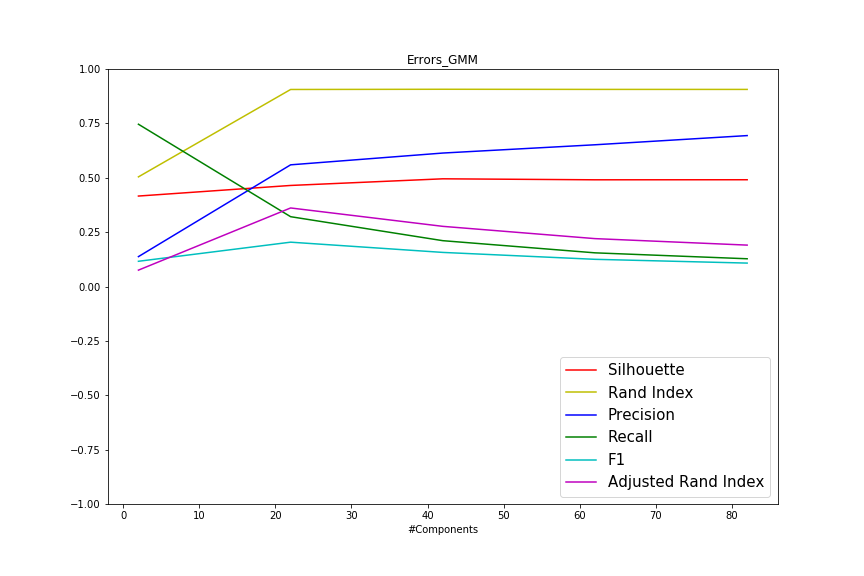
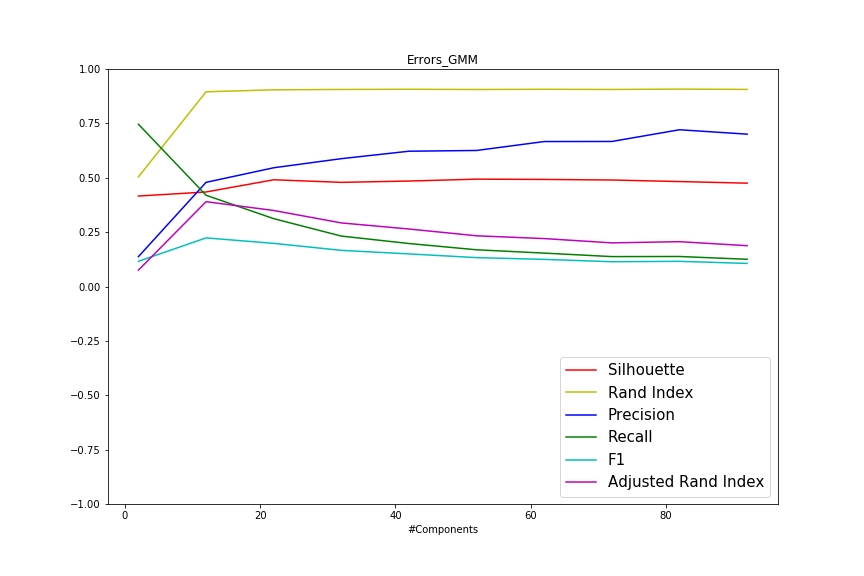
new results added

diff --git a/clustering.py b/clustering.py
@@ -95,15 +95,14 @@ Fs = data[:,-1]
 
 Xs_xyz = transf_earth_coord(Xs)
 
-fig = plt.figure(figsize=(6,4))
-ax = fig.add_subplot(111, projection = '3d')
-ax.set_aspect('equal')
-ax.scatter(Xs_xyz[:,0], Xs_xyz[:,1], Xs_xyz[:,2], s=5)
-plt.show()
+#fig = plt.figure(figsize=(6,4))
+#ax = fig.add_subplot(111, projection = '3d')
+#ax.set_aspect('equal')
+#ax.scatter(Xs_xyz[:,0], Xs_xyz[:,1], Xs_xyz[:,2], s=5)
+#plt.show()
 
 def score(X, sample_cluster, i):
-#    sil_score = metr.silhouette_score(Xs_xyz, sample_cluster)
-    sil_score = 1
+    sil_score = metr.silhouette_score(Xs_xyz, sample_cluster)
     adj_rand_score = metr.adjusted_rand_score(Fs , sample_cluster)
     TP,FP,FN,TN = confusion_matrix(sample_cluster) #não sei se se pode dar este nome
     N = len(sample_cluster)
@@ -111,7 +110,7 @@ def score(X, sample_cluster, i):
     precision = TP/(FP + TP)
     recall = TP/(FN + TP)
     F1 = (precision * recall)/(precision + recall)
-    errors.append([i, sil_score,rand_index, precision, recall, F1, adj_rand_score])
+    errors.append([i, sil_score, rand_index, precision, recall, F1, adj_rand_score])
     
     
 def confusion_matrix(sample_cluster):
@@ -132,7 +131,7 @@ def confusion_matrix(sample_cluster):
 #------------K-Means--------------------------
 
 #errors = []
-#for k in np.arange( int(96*0.90), int(96*1.05), 10):
+#for k in np.arange( int(96*0.9), int(96*1.05), 10):
 #    kmeans = KMeans(n_clusters=k).fit(Xs_xyz)
 #   # plot_classes(kmeans.predict(Xs_xyz), Xs[:,1], Xs[:,0])
 #    sample_cluster = kmeans.predict(Xs_xyz)
@@ -144,46 +143,46 @@ def confusion_matrix(sample_cluster):
     
 #------------DBSCAN--------------------------
 
-#----Eps selection---
-min_pts = 4
-nbrs = NearestNeighbors(n_neighbors=min_pts).fit(Xs_xyz)
-distances, indexes = nbrs.kneighbors(Xs_xyz)
-_4_dist = distances[:,-1] #Select distance to the furthest k_point
-ix = _4_dist.argsort()[::-1] #Sort and then invert to be in descending order
-
-plt.figure(1, figsize = (12,8), frameon = False)
-frame = plt.gca()
-plt.title("Sorted K-Dist Graph", fontsize = 20)
-plt.ylabel("K-Dist", fontsize = 15)
-frame.plot(np.arange(_4_dist.shape[0]), _4_dist[ix], "-r")
-frame.axes.get_xaxis().set_ticks([]) # ignore X values
-
-plt.savefig("sorted_k-dist_graph.png")
-plt.show()
-plt.close()
-
-errors = []
-for eps in np.arange(200, 500, 50):
-    print(eps)
-    db = DBSCAN(eps=eps).fit(Xs_xyz)
-    sample_cluster = db.labels_
-    print(sample_cluster.tolist().count(-1))
-#    plot_classes(sample_cluster, Xs[:,1], Xs[:,0])
-    score(Xs_xyz, sample_cluster, eps)
-    
-errors_np = np.array(errors)
-plot_errors(errors_np[:,0], errors_np[:,1:], "Errors_DBSCAN", "ε")
+##----Eps selection---
+#min_pts = 4
+#nbrs = NearestNeighbors(n_neighbors=min_pts).fit(Xs_xyz)
+#distances, indexes = nbrs.kneighbors(Xs_xyz)
+#_4_dist = distances[:,-1] #Select distance to the furthest k_point
+#ix = _4_dist.argsort()[::-1] #Sort and then invert to be in descending order
+#
+#plt.figure(1, figsize = (12,8), frameon = False)
+#frame = plt.gca()
+#plt.title("Sorted K-Dist Graph", fontsize = 20)
+#plt.ylabel("K-Dist", fontsize = 15)
+#frame.plot(np.arange(_4_dist.shape[0]), _4_dist[ix], "-r")
+#frame.axes.get_xaxis().set_ticks([]) # ignore X values
+#
+#plt.savefig("sorted_k-dist_graph.png")
+#plt.show()
+#plt.close()
+#
+#errors = []
+#for eps in np.arange(200, 500, 50):
+#    print(eps)
+#    db = DBSCAN(eps=eps).fit(Xs_xyz)
+#    sample_cluster = db.labels_
+#    print(sample_cluster.tolist().count(-1))
+##    plot_classes(sample_cluster, Xs[:,1], Xs[:,0])
+#    score(Xs_xyz, sample_cluster, eps)
+#    
+#errors_np = np.array(errors)
+#plot_errors(errors_np[:,0], errors_np[:,1:], "Errors_DBSCAN", "ε")
 
 #------------GMM--------------------------
-#errors = []
-#for n_comp in np.arange(2, 100, 20):
-#    gmm = GaussianMixture(n_components=n_comp).fit(Xs_xyz)
-#    sample_cluster = gmm.predict(Xs_xyz)
-#   # plot_classes(sample_cluster, Xs[:,1], Xs[:,0])
-#    score(Xs_xyz, sample_cluster, n_comp)
-#
-#errors_np = np.array(errors)
-#plot_errors(errors_np[:,0], errors_np[:,1:], "Errors_GMM", "#Components")
+errors = []
+for n_comp in np.arange(2, 100, 10):
+    gmm = GaussianMixture(n_components=n_comp).fit(Xs_xyz)
+    sample_cluster = gmm.predict(Xs_xyz)
+   # plot_classes(sample_cluster, Xs[:,1], Xs[:,0])
+    score(Xs_xyz, sample_cluster, n_comp)
+
+errors_np = np.array(errors)
+plot_errors(errors_np[:,0], errors_np[:,1:], "Errors_GMM", "#Components")
 
 
 
